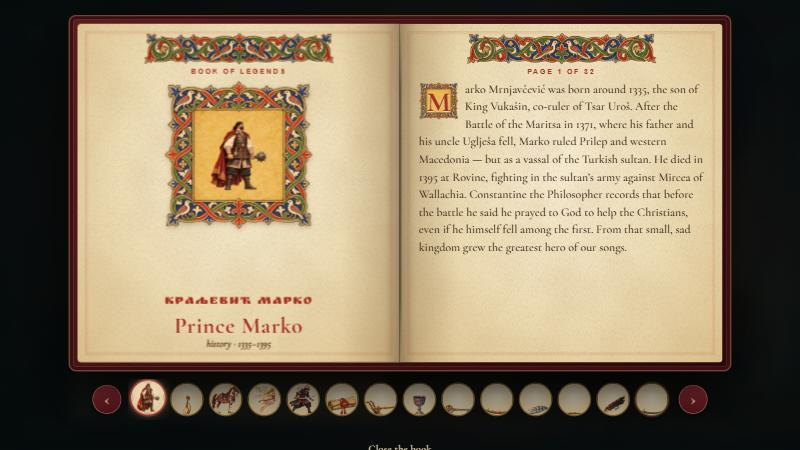
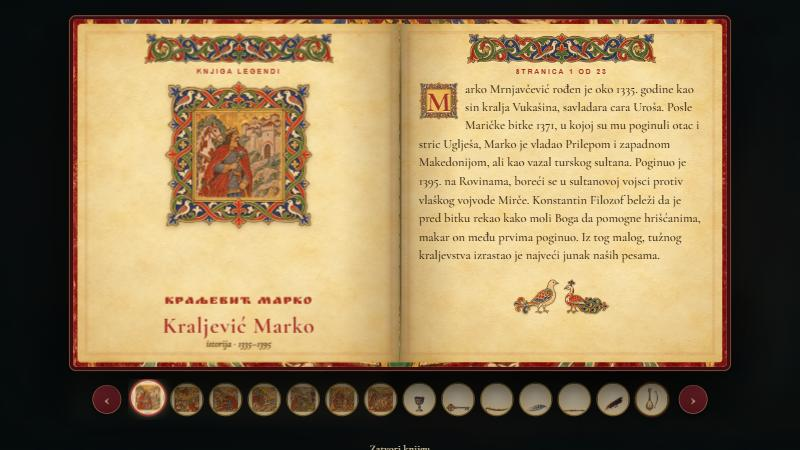
Book of Legends: Codex's miniatures, parchment, binding, birds; К on the book buttons, gusle for the song

diff --git a/dist/legende.js b/dist/legende.js
@@ -46,4 +46,9 @@ const SONG={cy:'Марко Краљевић и Муса Кесеџија',img:'a
  sr:{title:'Marko Kraljević i Musa Kesedžija',sub:'narodna pesma · Vuk Karadžić, Srpske narodne pjesme, knjiga druga (Beč, 1845)',note:'Tekst je ijekavski, kako ga je Vuk zapisao.'},
  en:{title:'Prince Marko and Musa Kesedžija',sub:'Serbian folk song · recorded by Vuk Karadžić, Serbian Folk Songs, Book Two (Vienna, 1845)',note:'The original on the left, an English translation line for line on the right.'},
  lines:{sr:["Vino pije Musa Arbanasa", "u Stambolu u krčmi bijeloj.", "Kad se Musa nakitio vina,", "onda poče pijan besjediti:", "„Evo ima devet godinica", "kako dvorim cara u Stambolu,", "ni izdvorih konja ni oružja,", "ni dolame nove ni polovne;", "al' tako mi moje vjere tvrde,", "odvrć ću se u ravno primorje,", "zatvoriću skele oko mora", "i drumove okolo primorja,", "načiniću kulu u primorju,", "oko kule gvozdene čengele,", "vješaću mu hodže i hadžije”.", "Što gođ Ture pjano govorilo,", "to trijezno bješe učinilo:", "odvrže se u primorje ravno,", "pozatvara skele oko mora", "i drumove okolo primorja,", "kud prolazi carevina blago,", "na godinu po trista tovara,", "sve je Musa sebe ustavio;", "u primorju kulu načinio,", "oko kule gvozdene čengele,", "vješa caru hodže i hadžije.", "Kada caru tužbe dodijaše,", "posla na njeg' Ćuprilić-vezira", "i sa njime tri hiljade vojske.", "Kad dođoše u ravno primorje", "sve polomi Musa po primorju", "i uhvati Ćuprilić-vezira,", "saveza mu ruke naopako,", "a sveza mu noge ispod konja,", "pa ga posla caru u Stambola.", "Stade care mejdandžije tražit,", "obećava nebrojeno blago", "tko pogubi Musu Kesedžiju.", "Kako koji tamo odlazaše,", "već Stambolu on ne dolazaše.", "To se care ljuto zabrinuo;", "al' mu veli hodža Ćupriliću:", "„Gospodine, care od Stambola,", "da je sada Kraljeviću Marko,", "zgubio bi Musu Kesedžiju”.", "Pogleda ga care poprijeko,", "pa on proli suze od očiju:", "„Prođi me se, hodža Ćupriliću!", "Jer pominješ Kraljevića Marka?", "I kosti su njemu istrunule;", "ima puno tri godine dana", "kako sam ga vrgo u tavnicu,", "nijesam je više otvorio”.", "Veli njemu hodža Ćupriliću:", "„Na milosti, care gospodine!", "Šta bi dao onome junaku", "koji bi ti živa kazo Marka?”", "Veli njemu care gospodine:", "„Dao bih mu na Bosni vezirstvo", "bez promjene za devet godina", "da ne tražim pare ni dinara”.", "Skoči hodža na noge lagane,", "te otvori na tavnici vrata,", "i izvede Kraljevića Marka,", "izvede ga pred cara čestitog:", "kosa mu je do zemljice crne,", "polu stere, polom se pokriva;", "nokti su mu orati bi mogo;", "ubila ga memla od kamena,", "pocrnio kao kamen sinji.", "Veli care Kraljeviću Marku:", "„Jesi l' đegod u životu, Marko?”", "„Jesam, care, ali u rđavu”.", "Sjede care kazivati Marku", "šta je njemu Musa počinio;", "pa on pita Kraljevića Marka:", "„Možeš li se, Marko, pouzdati", "da otideš u primorje ravno,", "da pogubiš Musu Kesedžiju?", "Daću blaga koliko ti drago”.", "Veli njemu Kraljeviću Marko:", "„Aja, bogme, care gospodine!", "Ubila me memla od kamena,", "ja ne mogu ni očima gledat,", "kamol' s Musom mejdan dijeliti!", "Namjesti me đegod u mehanu,", "primakni mi vina i rakije,", "i debela mesa ovnujskoga,", "i beškota hljeba bijeloga;", "da posjedim nekoliko dana,", "kazaću ti kad sam za mejdana”.", "Car dobavi tri berbera mlada:", "jedan mije, drugi Marka brije,", "a treći mu nokte sarezuje;", "namjesti ga u novu mehanu;", "primače mu vina i rakije,", "i debela mesa ovnujskoga,", "i beškota hljeba bijeloga.", "Sjede Marko tri meseca dana,", "dok je život malo povratio.", "Pita care Kraljevića Marka:", "„Možeš li se veće pouzdati?", "Dosadi mi ljuta sirotinja", "sve tužeći na Musu prokletog”.", "Veli Marko caru čestitome:", "„Donesi mi suve drenovine", "sa tavana od devet godina,", "da ogledam može li što biti”.", "Doneše mu suvu drenovinu,", "steže Marko u desnicu ruku,", "pršte drvo nadvoje, natroje;", "al' iz njega voda ne udari:", "„Bogme, care, jošte nije vreme”.", "Tako stade jošte mjesec dana,", "dok se Marko malo ponačini.", "Kada viđe da je za mejdana,", "onda ište suvu drenovinu.", "Donesoše drenovinu Marku:", "kad je steže u desnicu ruku,", "pršte pusta nadvoje, natroje,", "i dv'je kaplje vode iskočiše.", "Tada Marko caru progovara:", "„Prilika je, care, od mejdana”.", "Pa on ode Novaku kovaču:", "„Kuj mi sablju, Novače kovaču,", "kakvu nisi prije sakovao!”", "Dade njemu trideset dukata,", "pa on ode u novu mehanu,", "pije vino tri-četiri dana,", "pak pošeta opet do Novaka:", "„Jesi l', Novo, sablju sakovao?”", "Iznese mu sablju sakovanu.", "Veli njemu Kraljeviću Marko:", "„Je li dobra, Novače kovaču?”", "Novak Marku tiho govorio:", "„Eto sablje, a eto nakovnja,", "ti ogledaj sablju kakva ti je”.", "Manu sabljom po nakovnju Marko,", "nakovnja je pola presjekao,", "pa on pita Novaka kovača:", "„Oj, boga ti, Novače kovaču,", "jesi l' ikad bolju sakovao?”", "Veli njemu Novače kovaču:", "„Oj, boga mi, Kraljeviću Marko,", "jesam jednu bolju sakovao,", "bolju sablju, a boljem junaku:", "kad s' odvrže Musa u primorje,", "što sam njemu sablju sakovao,", "kad udari njome po nakovnju,", "ni trupina zdrava na ostade”.", "Ražljuti se Kraljeviću Marko,", "pa govori Novaku kovaču:", "„Pruži ruku, Novače kovaču!", "Pruži ruku, da ti sablju platim”", "Prevari se, ujede ga guja,", "prevari se, pruži desnu ruku,", "manu sabljom Kraljeviću Marko,", "ods'ječe mu ruku do ramena:", "„Eto sada, Novače kovaču,", "da ne kuješ ni bolje ni gore;", "a naj tebi stotinu dukata,", "te se hrani za života tvoga”.", "Dade njemu stotinu dukata,", "pak posjede Šarca od mejdana,", "ode pravo u primorje ravno,", "sve se skita, a za Musu pita.", "Jedno jutro bješe poranio", "uz klisuru tvrda Kačanika,", "al' eto ti Muse Kesedžije,", "na vrančiću noge prekrstio,", "topuzinu baca u oblake,", "dočekuje u bijele ruke.", "Kad se jedan drugom prikučiše,", "reče Marko Musi Kesedžiji:", "„Deli-Musa, uklon' mi se s puta!”", "Al' govori Musa Arbanasa:", "„Prođi, Marko, ne zameći kavge,", "il' odjaši da pijemo vino;", "a ja ti se ukloniti neću,", "ako t' i jest rodila kraljica", "na čardaku na meku dušeku,", "u čistu te svilu zavijala,", "a zlaćanom žicom povijala,", "othranila medom i šećerom;", "a mene je ljuta Arnautka", "kod ovaca na ploči studenoj,", "u crnu me struku zavijala,", "a kupinom lozom povijala,", "othranila skrobom ovsenijem;", "i još me je često zaklinjala", "da se nikom ne uklanjam s puta”.", "Kad to začu od Prilipa Marko,", "on tad pušća svoje bojno koplje", "svome Šarcu između ušiju,", "deli Musi u prsi junačke.", "Na topuz ga Musa dočekao,", "preko sebe koplje preturio,", "pak poteže svoje bojno koplje", "da udari Kraljevića Marka.", "Na topuz ga Marko dočekao,", "prebio ga na tri polovine.", "Potegoše sablje okovane,", "jedan drugom juriš učiniše:", "manu sabljom Kraljeviću Marko,", "deli Musa buzdovan podbaci,", "prebi mu je u tri polovine,", "pak poteže svoju sablju naglo,", "da udari Marka Kraljevića,", "al' podbaci topuzinu Marko,", "i izbi mu sablju iz balčaka.", "Potegoše perne buzdovane,", "stadoše se njima udarati;", "buzdovan'ma pera oblomiše,", "baciše ih u zelenu travu,", "od dobrijeh konja odskočiše,", "ščepaše se u kosti junačke", "i pognaše po zelenoj travi.", "Namjeri se junak na junaka,", "deli-Musa na Kraljević Marka;", "niti može da obori Marka,", "nit' se dade Musa oboriti.", "Nosiše se ljetni dan do podne:", "Musu b'jela pjena popanula,", "Kraljevića b'jela i krvava.", "Progovara Musa Kesedžija:", "„Mani, Marko, jali da omanem!”", "Omahuje Kraljeviću Marko,", "al' ne može ništa da učini.", "Tad omanu Musa Kesedžija,", "ud'ri Marka u zelenu travu,", "pak mu sjede na prsi junačke.", "Al' procvilje Kraljeviću Marko:", "„Đe si danas, posestrimo vilo?", "Đe si danas? Niđe te ne bilo!", "Eda si se krivo zaklinjala,", "đe god mene do nevolje bude,", "da ćeš mene biti u nevolji?”", "Javi mu se iz oblaka vila:", "„Zašto brate, Kraljeviću Marko!", "Jesam li ti, bolan, govorila", "da ne činiš u neđelju kavge?", "Sramota je dvoma na jednoga;", "đe su tebe guje iz potaje?”", "Glednu Musa brdu i oblaku,", "otkud ono vila progovara;", "mače Marko nože iz potaje,", "te raspori Musu Kesedžiju", "od učkura do bijela grla.", "Mrtav Musa pritisnuo Marka,", "i jedva se iskopao Marko.", "A kad stade Marko premetati,", "al' u Musi tri srca junačka,", "troja rebra jedna po drugijem;", "jedno mu se srce umorilo,", "a drugo se jako razigralo,", "na trećemu ljuta guja spava.", "Kada se je guja probudila,", "mrtav Musa po ledini skače,", "još je Marku guja govorila:", "„Moli boga, Kraljeviću Marko,", "đe se nisam probudila bila", "dok je Musa u životu bio,", "od tebe bi trista jada bilo”.", "Kad to viđe Kraljeviću Marko,", "proli suze niz bijelo lice:", "„Jaoh mene do boga miloga,", "đe pogubih od sebe boljega!”", "Pa on Musi odsiječe glavu,", "i baci je Šarcu u zobnicu,", "odnese je bijelu Stambolu.", "Kad je baci pred cara čestitog,", "car je od stra' na noge skočio;", "veli njemu Kraljeviću Marko:", "„Ne boj mi se, care gospodare!", "Kako bi ga živa dočekao,", "kad od mrtve glave poigravaš?”", "Car mu dade tri tovara blaga.", "Ode Marko bijelu Prilipu,", "osta Musa uvrh Kačanika."],en:["Musa the Albanian sits drinking wine", "in Istanbul, in the white tavern.", "When Musa had taken his fill of wine,", "drunk, he began to speak:", "“Nine long years it has been now", "that I have served the Sultan in Istanbul,", "and I have earned no horse, no weapons,", "no cloak, neither new nor worn;", "but I swear by my steadfast faith,", "I will break away to the level coast,", "I will close the harbors round the sea", "and the roads along the coast,", "I will build a tower on the coast,", "iron hooks around the tower,", "and hang his hodjas and his hajjis there.”", "Whatever the Turk had said when drunk", "he did when he was sober:", "he broke away to the level coast,", "closed the harbors round the sea", "and the roads along the coast", "where the empire’s treasure passed,", "three hundred loads in every year —", "Musa stopped it all for himself;", "he built a tower on the coast,", "iron hooks around the tower,", "and hangs the Sultan’s hodjas and hajjis.", "When the Sultan tired of the complaints,", "he sent the Vizier Ćuprilić against him", "and with him three thousand soldiers.", "When they came to the level coast,", "Musa broke them all along the coast", "and seized the Vizier Ćuprilić,", "bound his arms behind his back,", "tied his legs beneath his horse,", "and sent him to the Sultan in Istanbul.", "The Sultan began to seek out champions,", "promising treasure beyond counting", "to whoever would kill Musa Kesedžija.", "But each one who went out there", "never came back to Istanbul.", "The Sultan grew bitterly worried;", "then Hodja Ćuprilić said to him:", "“My lord, Sultan of Istanbul,", "if only Prince Marko were here now,", "he would destroy Musa Kesedžija.”", "The Sultan looked at him askance,", "and tears ran from his eyes:", "“Leave me be, Hodja Ćuprilić!", "Why do you speak of Prince Marko?", "Even his bones have rotted by now;", "it is three full years", "since I cast him into the dungeon,", "and I have never opened it again.”", "Hodja Ćuprilić said to him:", "“By your mercy, lord Sultan!", "What would you give to the hero", "who could show you Marko alive?”", "The lord Sultan said to him:", "“I would give him the vizierate of Bosnia,", "unchanged for nine years,", "and never ask him for a para or a dinar.”", "The hodja sprang to his nimble feet,", "opened the door of the dungeon", "and led out Prince Marko,", "led him before the honored Sultan:", "his hair reached down to the black earth,", "half he lay on, half he covered himself with;", "his nails — he could have plowed with them;", "the damp of the stone had broken him,", "he had turned as dark as grey stone.", "The Sultan said to Prince Marko:", "“Are you still alive at all, Marko?”", "“I am, Sultan, but in a sorry state.”", "The Sultan sat down to tell Marko", "what Musa had done to him,", "and then he asked Prince Marko:", "“Can you trust yourself, Marko,", "to go down to the level coast", "and destroy Musa Kesedžija?", "I will give you all the treasure you desire.”", "Prince Marko said to him:", "“No, by God, lord Sultan!", "The damp of the stone has broken me,", "I can hardly see with my eyes,", "let alone fight a duel with Musa!", "Set me up somewhere in a tavern,", "bring me wine and brandy", "and the fat meat of rams", "and biscuits of white bread;", "let me sit there for some days,", "and I will tell you when I’m fit to fight.”", "The Sultan sent for three young barbers:", "one washes Marko, the second shaves him,", "and the third one trims his nails;", "he set him up in a new tavern,", "brought him wine and brandy", "and the fat meat of rams", "and biscuits of white bread.", "Marko sat there three months long,", "until his life came back a little.", "The Sultan asked Prince Marko:", "“Can you trust yourself by now?", "The bitter poor have worn me out", "with their complaints against cursed Musa.”", "Marko said to the honored Sultan:", "“Bring me a piece of dry cornel wood,", "nine years seasoned in the loft,", "so I may test whether it can be done.”", "They brought him the dry cornel wood;", "Marko squeezed it in his right hand,", "the wood split in two, in three,", "but no water burst from it:", "“By God, Sultan, it is not yet time.”", "So he stayed another month,", "until Marko mended a little.", "When he saw that he was fit to fight,", "he asked again for dry cornel wood.", "They brought the cornel wood to Marko:", "when he squeezed it in his right hand,", "the dry wood split in two, in three,", "and two drops of water sprang out.", "Then Marko spoke to the Sultan:", "“Now, Sultan, I am fit to fight.”", "Then he went to Novak the smith:", "“Forge me a sabre, Novak the smith,", "such as you have never forged before!”", "He gave him thirty ducats", "and went back to the new tavern,", "drank wine for three or four days,", "then strolled again to Novak:", "“Have you forged the sabre, Novo?”", "Novak brought out the finished sabre.", "Prince Marko said to him:", "“Is it good, Novak the smith?”", "Novak spoke softly to Marko:", "“There is the sabre, and there the anvil;", "test the sabre, see what it is worth.”", "Marko swung the sabre at the anvil", "and cut the anvil half in two,", "then he asked Novak the smith:", "“By your God, Novak the smith,", "have you ever forged a better one?”", "Novak the smith said to him:", "“By my God, Prince Marko,", "I have forged a better one,", "a better sabre, for a better hero:", "when Musa broke away to the coast,", "the sabre that I forged for him —", "when he struck it on the anvil,", "not even the block was left whole.”", "Prince Marko flew into a rage", "and said to Novak the smith:", "“Give me your hand, Novak the smith!", "Give me your hand, so I can pay you for the sabre!”", "He was fooled — may a snake bite him —", "fooled, he held out his right hand;", "Prince Marko swung the sabre", "and cut his arm off at the shoulder:", "“There now, Novak the smith,", "now you will forge neither better nor worse;", "but here are a hundred ducats for you,", "to keep you for the rest of your life.”", "He gave him a hundred ducats,", "then mounted Šarac, his battle horse,", "and rode straight down to the level coast,", "roaming everywhere, asking after Musa.", "One morning he rode out early", "up the gorge of hard Kačanik,", "and there came Musa Kesedžija,", "legs crossed upon his little black horse,", "tossing his great mace into the clouds", "and catching it in his white hands.", "When they drew close to one another,", "Marko said to Musa Kesedžija:", "“Deli-Musa, get out of my way!”", "But Musa the Albanian replied:", "“Ride on, Marko, don’t start a quarrel,", "or dismount and let us drink wine;", "but I will not get out of your way,", "even if a queen gave birth to you", "in a high tower on a soft mattress,", "wrapped you in pure silk", "and swaddled you with golden thread,", "and raised you on honey and sugar;", "while me a fierce Albanian woman", "bore among the sheep on a cold stone slab,", "wrapped me in a black woollen cloak", "and swaddled me with bramble vine,", "and raised me on oatmeal gruel;", "and often she made me swear", "never to step aside for anyone.”", "When Marko of Prilep heard this,", "he let fly his battle spear", "between the ears of his Šarac,", "at Musa’s heroic chest.", "Musa caught it on his mace", "and flung the spear over his shoulder,", "then he drew his own battle spear", "to strike at Prince Marko.", "Marko caught it on his mace", "and broke it into three pieces.", "They drew their iron-bound sabres", "and charged at one another:", "Prince Marko swung his sabre,", "Deli-Musa thrust his mace beneath it", "and broke it into three pieces,", "then quickly drew his own sabre", "to strike at Prince Marko,", "but Marko thrust up his great mace", "and knocked the sabre from its hilt.", "They drew their flanged maces", "and began to beat each other;", "they broke the flanges off their maces,", "threw them down into the green grass,", "leapt down from their good horses,", "seized each other by their heroic bones", "and wrestled across the green grass.", "A hero had met his match in a hero,", "Deli-Musa in Prince Marko;", "neither can Musa throw Marko down,", "nor will Musa let himself be thrown.", "They wrestled through a summer day till noon:", "white foam covered Musa,", "white and bloody foam the Prince.", "Musa Kesedžija spoke:", "“Strike, Marko, or else I will strike!”", "Prince Marko swings and strikes,", "but he can do nothing to him.", "Then Musa Kesedžija struck,", "threw Marko down into the green grass", "and sat upon his heroic chest.", "Then Prince Marko cried out:", "“Where are you today, my sworn sister vila?", "Where are you today? May you be nowhere!", "Did you swear to me falsely,", "that wherever I fell into trouble,", "you would be with me in my trouble?”", "The vila answered from the clouds:", "“Why, brother, Prince Marko!", "Did I not tell you, poor man,", "never to start a quarrel on a Sunday?", "It is a shame for two to fight one;", "where are your vipers lying hidden?”", "Musa glanced at the hills and clouds,", "where the vila’s voice was coming from;", "Marko drew his knives from hiding", "and ripped open Musa Kesedžija", "from his sash to his white throat.", "Dead Musa pressed down on Marko,", "and Marko barely dug himself out.", "And when Marko turned him over,", "he found in Musa three heroic hearts,", "three sets of ribs, one upon another;", "one of his hearts had grown tired,", "the second was leaping wildly,", "and on the third a fierce snake slept.", "When the snake awoke,", "dead Musa leapt across the field,", "and the snake still spoke to Marko:", "“Thank God, Prince Marko,", "that I had not woken", "while Musa was alive —", "you would have had three hundred troubles from him.”", "When Prince Marko saw this,", "tears ran down his white face:", "“Woe is me, by the dear God,", "for I have killed a better man than I!”", "Then he cut off Musa’s head,", "threw it into Šarac’s feed bag,", "and carried it to white Istanbul.", "When he threw it before the honored Sultan,", "the Sultan leapt to his feet in fear;", "Prince Marko said to him:", "“Do not fear, my lord Sultan!", "How would you have met him alive,", "when you jump so at a dead man’s head?”", "The Sultan gave him three loads of treasure.", "Marko went home to white Prilep,", "and Musa stayed atop Kačanik."]}};
+// Codex's miniatures (art/world-pack-03/DOPUNA-7); a chapter without one keeps its portrait.
+const MINI=['marko','musa','oranje','pesme','sarac','uros','vila'];
+for(const c of CHAPTERS)if(MINI.includes(c.id))c.mini=`assets/ui/minijature/minijatura-${c.id}.webp`;
+if(MINI.includes('pesma'))SONG.mini='assets/ui/minijature/minijatura-pesma.webp';
+SONG.tab='assets/ui/rukopis-gusle.webp';
 globalThis.markoLegende={CHAPTERS,SONG};

diff --git a/dist/game.js b/dist/game.js
@@ -1456,7 +1456,7 @@ const VERSES=16;
 function legendSpreads(){const D=globalThis.markoLegende;if(!D)return[];const en=uiLang()==='en',out=[];
  for(const c of D.CHAPTERS){const t=c[en?'en':'sr'],pic=c.mini||c.img;out.push({group:c.id,tab:{img:c.tab||pic,label:t.title},
   left:`${ZASTAVICA}<p class="book-eyebrow">KNJIGA LEGENDI</p><figure class="miniature${c.mini?' painted':''}"><img src="${pic}" alt=""></figure><div data-notr class="ms-head"><p class="ms-cy">${c.cy}</p><h3 class="foe-name">${t.title}</h3><p class="foe-role">${t.sub}</p></div>`,
-  right:(i,N)=>`${ZASTAVICA}<p class="book-eyebrow">Stranica ${i+1} od ${N}</p><div data-notr class="ms-body"><p class="drop ms-text">${t.text}</p><p class="ms-end" aria-hidden="true">✠ ✠ ✠</p></div>`});}
+  right:(i,N)=>`${ZASTAVICA}<p class="book-eyebrow">Stranica ${i+1} od ${N}</p><div data-notr class="ms-body"><p class="drop ms-text">${t.text}</p><div class="ms-birds" aria-hidden="true"><img src="assets/ui/rukopis-ptica-2.webp" alt=""><img src="assets/ui/rukopis-ptica-1.webp" alt=""></div></div>`});}
  const S=D.SONG,T=S[en?'en':'sr'],sr=S.lines.sr,tr2=S.lines.en,n=sr.length;
  const verses=(arr,a,b)=>`<ol class="verses" data-notr>${arr.slice(a,b).map((l,k)=>`<li data-n="${a+k}"${reader?.line===a+k?' class="now"':''}><i>${(a+k+1)%5===0?a+k+1:''}</i>${l}</li>`).join('')}</ol>`;
  const readBar='<div class="read-bar"><button data-read="sr"><b>▶</b>Čitaj na srpskom</button><button data-read="en"><b>▶</b>Čitaj na engleskom</button></div>';
@@ -1466,7 +1466,7 @@ function legendSpreads(){const D=globalThis.markoLegende;if(!D)return[];const en
  const per=en?VERSES:VERSES*2;
  for(let a=0;a<n;a+=per){const b=Math.min(n,a+per),mid=Math.min(n,a+VERSES);
   out.push({group:'pesma',range:[a,b],left:`${ZASTAVICA}<p class="book-eyebrow">${en?'SRPSKI':'PESMA'}</p>${verses(sr,a,mid)}`,
-   right:(i,N)=>`${ZASTAVICA}<p class="book-eyebrow">${en?'ENGLISH':`Stranica ${i+1} od ${N}`}</p>${en?verses(tr2,a,b):verses(sr,mid,b)}${b>=n?'<p class="ms-end" aria-hidden="true">✠</p>':''}${a===0?readBar:''}`});}
+   right:(i,N)=>`${ZASTAVICA}<p class="book-eyebrow">${en?'ENGLISH':`Stranica ${i+1} od ${N}`}</p>${en?verses(tr2,a,b):verses(sr,mid,b)}${b>=n?'<div class="ms-birds" aria-hidden="true"><img src="assets/ui/rukopis-ptica-2.webp" alt=""><img src="assets/ui/rukopis-ptica-1.webp" alt=""></div>':''}${a===0?readBar:''}`});}
  return out;}
 function bookList(){return bookKind==='legende'?legendSpreads():BOOK_PAGES.map((pg,i)=>({group:'f'+i,foe:i,tab:{foe:i}}));}
 function spreadHTML(i){const s=bookSpreads[i];if(!s)return{left:'',right:''};if(s.foe!=null)return foeSpread(s.foe);return{left:s.left,right:typeof s.right==='function'?s.right(i,bookSpreads.length):s.right};}

diff --git a/dist/ui.css b/dist/ui.css
@@ -363,3 +363,15 @@
 /* a painted miniature fills the frame's opening edge to edge */
 .miniature.painted{padding:11.5%}
 .miniature.painted img{object-fit:cover;filter:none;border-radius:1px;box-shadow:0 0 0 1px #5a3a1a88}
+
+/* ---------- Codex's parchment, binding and ornaments (DOPUNA-6) ---------- */
+:root{--parch:radial-gradient(ellipse at 50% 42%,#0000 50%,#7a4a1a30 100%),url(assets/ui/rukopis-pergament.webp) center/cover}
+#menu .menu-copy{background-image:url(assets/ui/corner-tl.svg),url(assets/ui/corner-tr.svg),url(assets/ui/corner-bl.svg),url(assets/ui/corner-br.svg),radial-gradient(ellipse at 50% 40%,#0000 45%,#7a4a1a3a 100%),url(assets/ui/rukopis-pergament.webp);
+ background-size:54px,54px,54px,54px,auto,cover;background-repeat:no-repeat}
+.book{background:url(assets/ui/rukopis-korice.webp) center/cover,#4a1214}
+.leaf.cover .front{background:url(assets/ui/rukopis-korice.webp) center/cover!important;box-shadow:inset 0 0 0 1px #00000055,inset -14px 0 24px #0005!important}
+.leaf.cover .front span{display:none}
+.ms-birds{display:flex;justify-content:center;align-items:flex-end;gap:6px;margin:14px 0 0}
+.ms-birds img{width:74px;height:74px;object-fit:contain;filter:drop-shadow(0 1px 1px #5a3a1a55)}
+#menu-legende::before,#menu-knjiga::before{content:"";display:inline-block;width:20px;height:25px;margin:-8px 8px -6px 0;vertical-align:middle;background:url(assets/ui/rukopis-inicijal-k.webp) center/contain no-repeat}
+.book-tabs .tab.pic.song img{object-fit:contain;padding:6px}

diff --git a/art/world-pack-03/rukopis/minijature/export.py b/art/world-pack-03/rukopis/minijature/export.py
@@ -1,0 +1,16 @@
+from pathlib import Path
+from PIL import Image
+import sys, shutil, json
+root=Path(__file__).resolve().parent
+name,source=sys.argv[1:3]
+out=root/(name+'.png')
+assert not out.exists(), 'Preserving existing file'
+(root/'sources').mkdir(exist_ok=True)
+raw=root/'sources'/(name+'.png')
+assert not raw.exists()
+shutil.copy2(source,raw)
+im=Image.open(raw).convert('RGBA').resize((768,768),Image.Resampling.LANCZOS)
+bg=Image.new('RGBA',im.size,(191,150,65,255)); bg.alpha_composite(im); bg.convert('RGB').save(out)
+with (root.parent.parent/'STATUS.md').open('a',encoding='utf8') as f:
+    f.write('\n## DOPUNA-7 - '+name+' GOTOVO\nSacuvano u rukopis/minijature/'+name+'.png; 768x768 PNG, neprovidna zlatna podloga. Ugradjeni image_gen, prompt u minijature/prompts.json, izvor u minijature/sources/.\n')
+print(name+' saved, 768x768 opaque PNG; STATUS appended')

diff --git a/art/world-pack-03/rukopis/make-preview.py b/art/world-pack-03/rukopis/make-preview.py
@@ -1,0 +1,16 @@
+from PIL import Image, ImageOps
+from pathlib import Path
+import json,sys,math
+root=Path(__file__).resolve().parent
+if len(sys.argv)>1: root=root/'minijature'
+jobs=json.loads((root/'prompts.json').read_text(encoding='utf8'))['jobs']
+files=[root/(j['id']+'.png') for j in jobs]
+assert all(p.exists() for p in files)
+out=root/'preview.png'; assert not out.exists()
+cols=4; cell=384
+board=Image.new('RGB',(cols*cell,math.ceil(len(files)/cols)*cell),(234,222,192))
+for i,p in enumerate(files):
+    im=Image.open(p).convert('RGBA'); im.thumbnail((cell-24,cell-24),Image.Resampling.LANCZOS)
+    board.paste(im,((i%cols)*cell+(cell-im.width)//2,(i//cols)*cell+(cell-im.height)//2),im)
+board.save(out)
+print(str(out))

diff --git a/art/world-pack-03/STATUS.md b/art/world-pack-03/STATUS.md
@@ -219,3 +219,26 @@ PNG 512x640, providna pozadina. Sacuvan u rukopis/rukopis-inicijal-p.png; izvor 
 
 ## DOPUNA-6 - rukopis-gusle GOTOVO
 PNG 256x256, providna pozadina. Sacuvan u rukopis/rukopis-gusle.png; izvor u rukopis/sources/. Ugradjeni image_gen; prompt sacuvan u rukopis/prompts.json. Proverene dimenzije i alfa kanal.
+
+## DOPUNA-7 - minijatura-marko GOTOVO
+Sacuvano u rukopis/minijature/minijatura-marko.png; 768x768 PNG, neprovidna zlatna podloga. Ugradjeni image_gen, prompt u minijature/prompts.json, izvor u minijature/sources/.
+
+DOPUNA-6: svih 11 elemenata sada gotovo; zajednicki pregled rukopis/preview.png. Vizuelno pregledani na svetloj podlozi; dimenzije i alfa u rukopis/validation.json.
+
+## DOPUNA-7 - minijatura-pesme GOTOVO
+Sacuvano u rukopis/minijature/minijatura-pesme.png; 768x768 PNG, neprovidna zlatna podloga. Ugradjeni image_gen, prompt u minijature/prompts.json, izvor u minijature/sources/.
+
+## DOPUNA-7 - minijatura-sarac GOTOVO
+Sacuvano u rukopis/minijature/minijatura-sarac.png; 768x768 PNG, neprovidna zlatna podloga. Ugradjeni image_gen, prompt u minijature/prompts.json, izvor u minijature/sources/.
+
+## DOPUNA-7 - minijatura-vila GOTOVO
+Sacuvano u rukopis/minijature/minijatura-vila.png; 768x768 PNG, neprovidna zlatna podloga. Ugradjeni image_gen, prompt u minijature/prompts.json, izvor u minijature/sources/.
+
+## DOPUNA-7 - minijatura-musa GOTOVO
+Sacuvano u rukopis/minijature/minijatura-musa.png; 768x768 PNG, neprovidna zlatna podloga. Ugradjeni image_gen, prompt u minijature/prompts.json, izvor u minijature/sources/.
+
+## DOPUNA-7 - minijatura-uros GOTOVO
+Sacuvano u rukopis/minijature/minijatura-uros.png; 768x768 PNG, neprovidna zlatna podloga. Ugradjeni image_gen, prompt u minijature/prompts.json, izvor u minijature/sources/.
+
+## DOPUNA-7 - minijatura-oranje GOTOVO
+Sacuvano u rukopis/minijature/minijatura-oranje.png; 768x768 PNG, neprovidna zlatna podloga. Ugradjeni image_gen, prompt u minijature/prompts.json, izvor u minijature/sources/.
